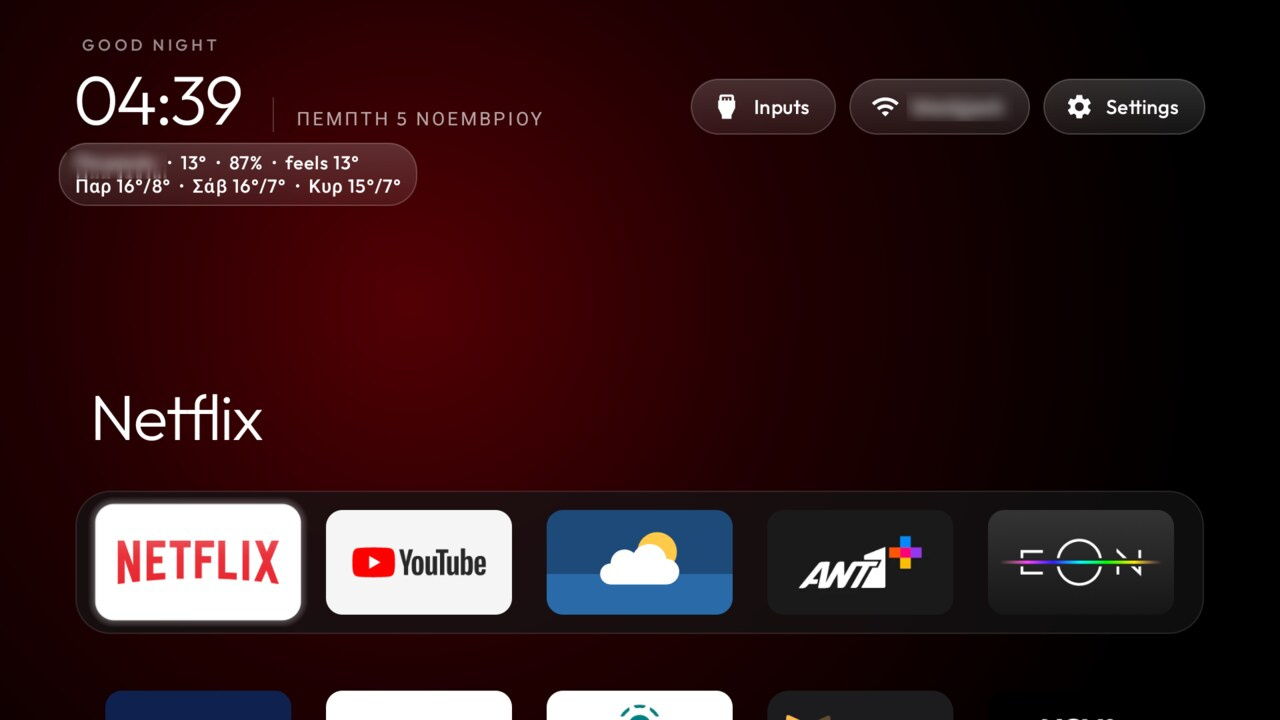
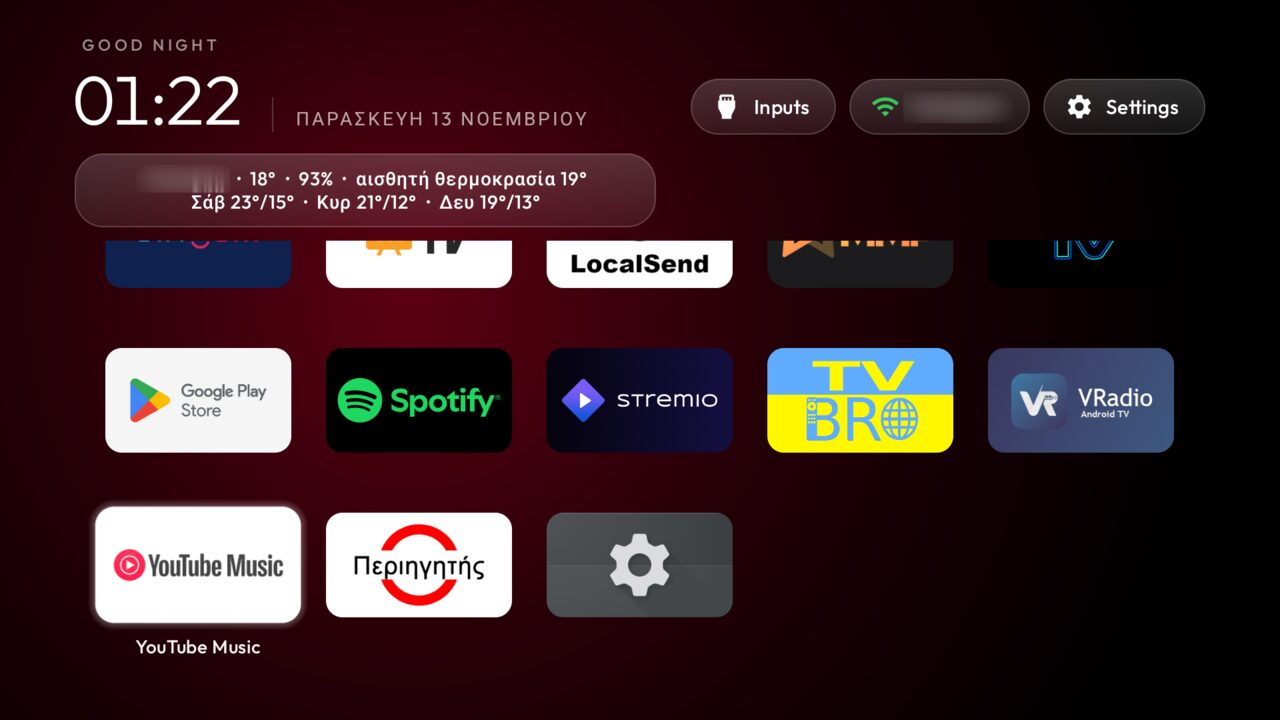
Launcher: enable Weather add-on in this fork
Set weather_feed to the bundled Weather add-on by default and update the fork documentation. Replace the old weather image with a TV capture that hides the city and Wi-Fi name.

Tested on: Tesla Smart TV Q55E655GUS, Google TV 14; clock-width glass pill checked in Greek with 24-hour time, scrolling, and OK navigation.

diff --git a/themes/README.md b/themes/README.md
@@ -149,7 +149,7 @@ A new key needs one there in the same pull request.
 | `show_home_settings_shortcut` | bool | Keep the optional Default-home tile visible when the TV has a home picker; false by default |
 | `show_stats` | bool | One line under the clock with CPU, free memory and free storage. Off unless set |
 | `game_day` | string | Each team's next game in the F1 panel's place under the clock ("Minnesota Wild at Dallas Stars", "Puck drop in 2h 18m", "Live now"), rotating every few seconds with the F1 weekend when `race_calendar` is on: the package of an add-on that publishes them, such as the Game Day add-on (`io.github.justinnewman.gameday`). The launcher only reads it and stays offline. Off (empty) unless set |
-| `weather_feed` | string | The weather now and the next three days in a centered, wrapping pill as wide as the clock and date block, below the `show_stats` line when that is on (the place, the temperature, the humidity and the feels-like temperature; then each day's high and low, with the chance of rain from 50%): the package of an add-on that publishes it, such as the Weather add-on (`io.github.sumyabazar1.weather`). OK on the pill opens the add-on. The launcher only reads it and stays offline. `config.xml` only. Off (empty) unless set |
+| `weather_feed` | string | The weather now and the next three days in a centered, wrapping pill as wide as the clock and date block, below the `show_stats` line when that is on (the place, the temperature, the humidity and the feels-like temperature; then each day's high and low, with the chance of rain from 50%): the package of an add-on that publishes it, such as the Weather add-on (`io.github.sumyabazar1.weather`). OK on the pill opens the add-on. The launcher only reads it and stays offline. `config.xml` only. This fork sets the Weather add-on by default; clear the value to hide the pill |
 | `handle_view_inputs` | bool | Answer the system input switcher (`VIEW_INPUTS`, what the remote's Input button becomes) with the Inputs menu, for sets whose stock launcher was its only handler (Hisense huangshan); `false` by default so a TV with its own input picker never gets a chooser |
 | `background_color` | `#RRGGBB` | Colour behind everything; black by default. A value `Color.parseColor()` cannot read leaves the colour the theme already had, and an 8-digit `#AARRGGBB` is made opaque (`Config.color()` ORs `0xFF000000`), so tools/manage.py's `set` refuses both before writing |
 | `sky_intensity` | 0 to 100 | Time-of-day backdrop: a dark gradient that follows the clock, 0 hides it (default) |

diff --git a/FORK.md b/FORK.md
@@ -4,6 +4,8 @@ A fork of [CleanYourTV](https://github.com/Gathin23/cleanyourtv) that adds **a g
 date, showing the weather now and the next three days from the Weather add-on**. The launcher keeps no
 `INTERNET` permission and goes online for nothing; the add-on does the fetching.
 
+![Clock-width glass weather pill on a TV, with the city and Wi-Fi name blurred](docs/switches/weather_feed.jpg)
+
 ```
 Lisbon  ·  13°  ·  86%  ·  feels 13°
 Fri 16°/8°  ·  Sat 16°/7° rain 60%  ·  Sun 15°/7°
@@ -24,7 +26,7 @@ The README keeps the upstream text under a short fork note.
 
 | Part | What it does |
 |---|---|
-| `weather_feed` (launcher, `config.xml`) | The package of an add-on that publishes the weather. Empty by default: nothing is read and Home looks as it did. A launcher that cannot find the add-on, or finds a provider another app holds, shows nothing. |
+| `weather_feed` (launcher, `config.xml`) | The package of an add-on that publishes the weather. This fork names the Weather add-on by default; clear the value to hide the pill. If the add-on is absent, or another app holds its provider, Home shows no weather. |
 | `addons/weather` (the Weather add-on) | Publishes a read-only content provider, `io.github.sumyabazar1.weather.feed`, with `/now` (place, temperature, feels-like, humidity, wind, air quality) and `/days` (weekday, sky, high, low, chance of rain). It holds only a place name and the weather there. |
 
 The columns are in [docs/modules.md](docs/modules.md), "The weather on Home". The add-on asks for one more permission than
@@ -57,11 +59,8 @@ Greek. The add-on's full-page sky words fall back to English in Greek.
    repo's README describes.
 2. Build and install the add-on: `cd addons/weather && ./gradlew assembleRelease`, then `adb install -r` the APK. Open
    it once and pick your city.
-3. Name the add-on in `launcher/app/src/main/res/values/config.xml` before building the launcher:
-
-   ```xml
-   <string name="weather_feed" translatable="false">io.github.sumyabazar1.weather</string>
-   ```
+3. The launcher's `weather_feed` key already names this add-on. To build without the weather pill, clear that value in
+   `launcher/app/src/main/res/values/config.xml` before building.
 
 Nothing else in the launcher changes, so an existing theme or list keeps working.
 

diff --git a/docs/modules.md b/docs/modules.md
@@ -154,8 +154,8 @@ The [Game Day](../addons/README.md) add-on implements this from calendar links t
 An app can hand Home the weather now and the next three days. The launcher shows a centered, wrapping pill as wide as the clock and date block (under
 the `show_stats` line when that is on): the weather now, then the three days, each with its high and low and, from 50%
 up, its chance of rain. OK on the pill opens the app. The launcher only reads; it never writes to the app and never goes
-online, so the app does the fetching. The owner opts in by naming the app's package in the `weather_feed` key
-(`config.xml`); there is no card prompt for it.
+online, so the app does the fetching. The package is named in the `weather_feed` key (`config.xml`); this fork names the
+Weather add-on by default, and an empty value hides the pill. There is no card prompt for it.
 
 1. Name a read-only content provider in a `meta-data` on your `<application>`:
 

diff --git a/README.md b/README.md
@@ -1,8 +1,8 @@
 > ### This is a fork of [CleanYourTV](https://github.com/Gathin23/cleanyourtv), originally based on v3.3.0 and later synced with upstream main
 >
 > It adds **a glass weather pill below Home's clock and date**: the weather now and the next three days (with the chance of rain
-> from 50%), read from the Weather add-on, so the launcher itself stays offline. It is off until you name the add-on in
-> `config.xml`, so with it unset Home looks exactly as the original.
+> from 50%), read from the Weather add-on, so the launcher itself stays offline. This fork enables the pill in
+> `config.xml` by default; clear `weather_feed` there to hide it.
 >
 > **[What is different (FORK.md)](FORK.md)** ·
 > **[Compare with upstream main](https://github.com/Gathin23/cleanyourtv/compare/main...lukumaki:weather-feed)** ·

diff --git a/docs/switches.md b/docs/switches.md
@@ -27,7 +27,7 @@ rule sit on its wanted list until a screenshot arrives.
 | Key | Screenshot |
 |---|---|
 | `columns` | <img src="../themes/six-columns/screenshot.jpg" width="320" alt="columns on a TV"> |
-| `weather_feed` | <img src="switches/weather_feed.jpg" width="320" alt="weather_feed line under the clock on a TV"> |
+| `weather_feed` | <img src="switches/weather_feed.jpg" width="320" alt="clock-width weather pill under the clock on a TV; city and Wi-Fi name blurred"> |
 | `glass_style` | <img src="switches/glass_style.jpg" width="320" alt="glass_style halo on a TV"> |
 | `sky_intensity` | <img src="sky-sunset.jpg" width="320" alt="sky_intensity on a TV"> |
 | `wallpaper_rotation_minutes` | <img src="../themes/scenes/screenshot.jpg" width="320" alt="wallpaper_rotation_minutes on a TV"> |
